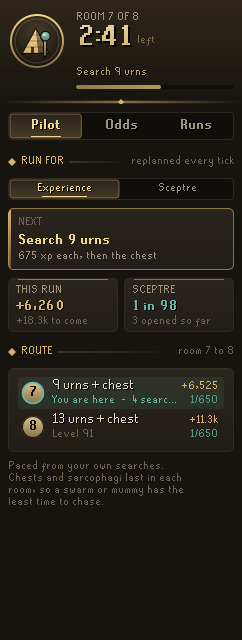
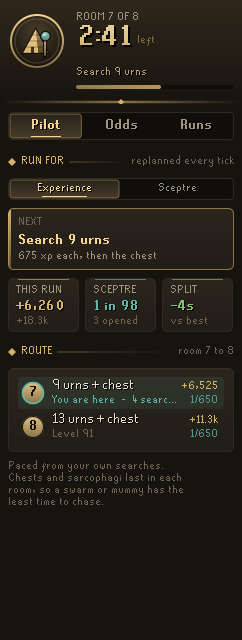
Rebuild the Odds and Runs pages only when they change, compare live splits under the run's own goal
The panel rebuilt all three pages every tick of a run; the Odds and Runs
pages now rebuild only when a run is added, the level or goal changes,
or a minute passes. A goal switched mid-run no longer measures the live
split against the other goal's best. README and screenshots updated.

diff --git a/src/main/java/com/codex/plunder/ui/PilotPanel.java b/src/main/java/com/codex/plunder/ui/PilotPanel.java
@@ -138,11 +138,36 @@ public class PilotPanel extends PluginPanel
 			Theme.mix(Theme.TEXT_MUTED, Theme.GOLD, 0.35), Theme.GOLD, -1);
 	}
 
+	private String oddsShown;
+	private String runsShown;
+
+	/**
+	 * The Pilot page changes every tick of a run; the other two only when a run is added, the level
+	 * or goal changes or a minute passes, so they are rebuilt only then rather than every tick.
+	 */
 	private void rebuild()
 	{
 		rebuildPilot();
-		rebuildOdds();
-		rebuildRuns();
+		View.Record r = view.record;
+		long opened = 0;
+		for (long o : r.opened)
+		{
+			opened += o;
+		}
+		String common = view.state + "|" + view.level + "|" + view.goal + "|" + r.totalRuns + "|" + r.runs.size() + "|" + r.sceptres
+			+ "|" + r.paceSamples;
+		String odds = common + "|" + opened;
+		if (!odds.equals(oddsShown))
+		{
+			oddsShown = odds;
+			rebuildOdds();
+		}
+		String runsKey = common + "|" + view.xp + "|" + view.targetLevel + "|" + r.recentRate + "|" + view.now / 60_000L;
+		if (!runsKey.equals(runsShown))
+		{
+			runsShown = runsKey;
+			rebuildRuns();
+		}
 	}
 
 	private boolean waiting(StackPanel stack)

diff --git a/src/main/java/com/codex/plunder/CodexPlunderPilotPlugin.java b/src/main/java/com/codex/plunder/CodexPlunderPilotPlugin.java
@@ -1040,7 +1040,9 @@ public class CodexPlunderPilotPlugin extends Plugin
 			Plan plan = live == null ? fresh : live.plan;
 			Step step = live == null ? Step.next(fresh, false, false, 0) : live.step;
 			Room in = tracker.getRoom();
-			Integer split = in == null || in.ordinal() == 0 ? null : book.all.delta(in, tracker.enteredAt(in));
+			// Measured against the best for the goal the run began with, which is the goal it will be saved under.
+			Integer split = live == null || in == null || in.ordinal() == 0 || tracker.getGoal() == null ? null
+				: splits(tracker.getGoal(), Room.highest(level)).all.delta(in, tracker.enteredAt(in));
 			View.Live run = live == null ? null : new View.Live(live.ticksLeft, tracker.getThievingXp(), tracker.getArtefacts(),
 				tracker.getChests() + tracker.getSarcophagi(), Odds.atLeastOne(tracker.getOpened()), split);
 			view = new View(View.State.READY, name, level, logbook.getXp(), config.goalLevel(), goal, plan, fresh, ladder, step, run, record, now);

diff --git a/src/main/java/com/codex/plunder/core/RunTracker.java b/src/main/java/com/codex/plunder/core/RunTracker.java
@@ -170,6 +170,12 @@ public final class RunTracker
 		return room;
 	}
 
+	/** The goal the run began with, which it is recorded and compared under even if the goal changes mid-run. */
+	public Goal getGoal()
+	{
+		return goal;
+	}
+
 	/** Ticks from the start of the run to entering the room, or -1 when it has not been entered. */
 	public int enteredAt(Room r)
 	{

diff --git a/README.md b/README.md
@@ -19,8 +19,11 @@ It is part of the **Codex** suite, with [Codex Navigator](https://github.com/Nub
 - **When something goes wrong.** Mid-run the next step changes to what needs doing first: Protect from Melee (or keep moving) when a swarm or mummy is on you, eat when your hitpoints are low enough for a snake to hurt, and drop the cheapest artefacts when your pack is full.
 - **Odds.** Every grand gold chest and sarcophagus you open is counted by room. The page shows how many sceptres that should have turned up, how many did, and how lucky or dry you are against everyone who opened as many. For your plan it gives the chance each run, the runs to even odds and to nine in ten, and the chance in an hour.
 - **Runs.** Your Thieving experience an hour over your last runs, the way to a goal level in runs and hours, when the next room opens, a ladder of the experience an hour at every room's level, and your recent runs with what each earned, how long it took and the artefacts it turned up. A sceptre run is marked in teal.
+- **Splits.** Every run keeps the moment it entered each room, like a speedrunner's splits. The Runs page shows your last run to your deepest room against your best before it, room by room: when you entered, how far ahead or behind, and a bar for how long each room took with a tick at its quickest crossing ever (a gold diamond when you matched it). Your quickest rooms strung together give the run you have in you. During a run a Split tile says how far ahead or behind your best you entered the room, and the run summary calls out a new best. Runs are only compared with runs for the same goal that reached the same room.
+- **Session.** Runs played back to back (no break over twenty minutes) make a session: runs, experience and artefact coins an hour with the walk back counted, a bar for every run, your best run, and the sceptre chance the session's chests and sarcophagi carried together.
+- **Pharaoh's sceptre.** The ready check warns when your sceptre is out of charges, counts its charges once the game has named them, and suggests bringing it when it is in your bank: its Jalsavrah teleport lands right at the pyramid. With [Codex Gear Roadmap](https://github.com/Nubles/OSRS-Codex-Gear-Roadmap) installed, the bank it last saw counts too.
 - **Plaque.** A slim plaque in the game view during a run with the room, the clock and the next step.
-- **Run summary.** When a run ends, a line in the chat box with the room reached, the experience, the artefacts and the sceptre odds the run carried.
+- **Run summary.** When a run ends, a line in the chat box with the room reached, the experience, the artefacts, the sceptre odds the run carried, a new best to the deepest room and the session's rate.
 
 <p align="center">
   <img src="docs/screenshots/pilot-sceptre.png" width="225" alt="Hunting the sceptre">
@@ -51,7 +54,7 @@ Everything is saved per account in your RuneLite profile.
 
 ## Rules posture
 
-Codex Plunder Pilot only reads what the game already shows you: your Thieving, Strength, Hitpoints and Prayer, your pack, the room, the clock, which urns, chests and doors are open, and whether a swarm or mummy is after you. It outlines objects and draws its own panel and plaque. It does not click, change menus, or send anything over the network; you do every click.
+Codex Plunder Pilot only reads what the game already shows you: your Thieving, Strength, Hitpoints and Prayer, your pack and bank, the room, the clock, which urns, chests and doors are open, and whether a swarm or mummy is after you. It outlines objects and draws its own panel and plaque. It does not click, change menus, or send anything over the network; you do every click.
 
 ## Development
 
